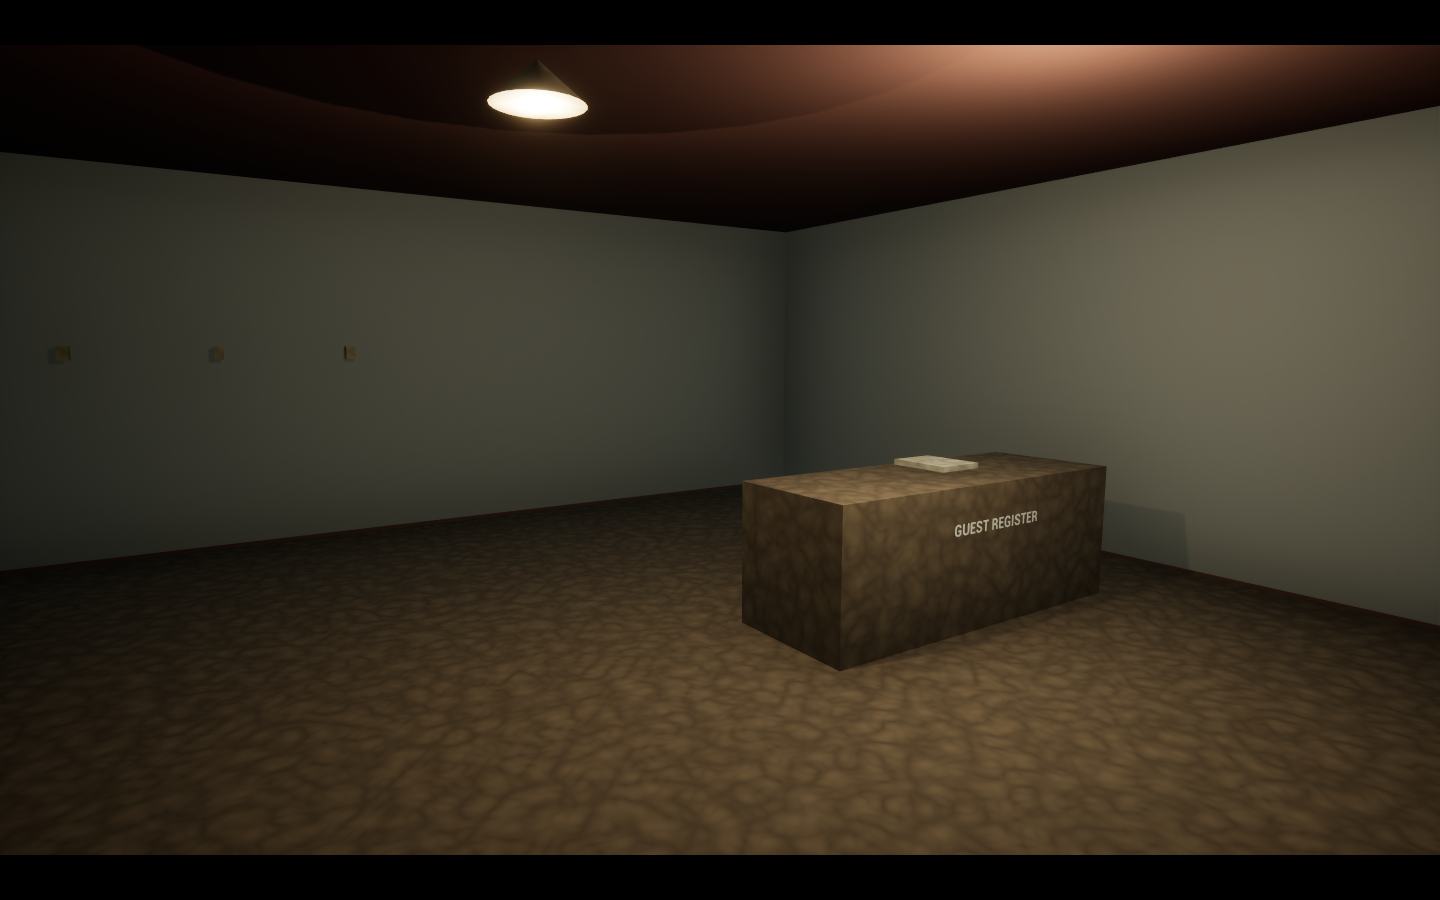
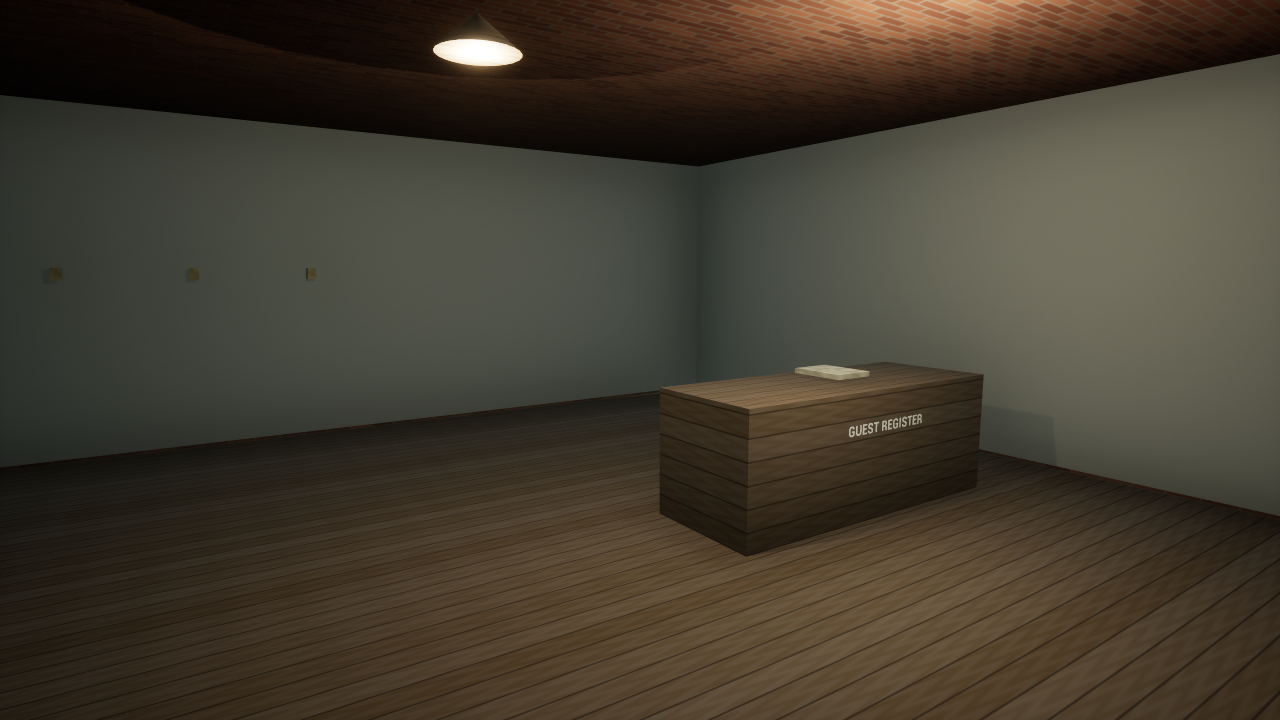
Refine town architecture with original materials and facade details

diff --git a/Source/CountyLine/World/CLPecosBend.cpp b/Source/CountyLine/World/CLPecosBend.cpp
@@ -13,6 +13,17 @@ UStaticMeshComponent* ACLPecosBend::Shape(const FString& Name,FVector P,FVector 
     const bool bPrototype=FString(Material)==TEXT("Brick") || FString(Material)==TEXT("Plaster");
     const FString Asset=bPrototype?FString::Printf(TEXT("/Game/Prototype/Materials/M_%s.M_%s"),Material,Material):FString::Printf(TEXT("/Game/Art/Materials/M_CL_%s.M_CL_%s"),Material,Material);
     C->SetMaterial(0,LoadObject<UMaterialInterface>(nullptr,*Asset));
+    FString Finish;
+    const FString Kind(Material);
+    if(Name.Contains(TEXT("Inner")) || Name.Contains(TEXT("Laundry"))) {} // Keep plain interior plaster and cloth.
+    else if(Name.StartsWith(TEXT("Home")) && Name.EndsWith(TEXT("Walls")) && Kind==TEXT("Plaster")) Finish=TEXT("Siding");
+    else if(Name.Contains(TEXT("Glass"))) Finish=TEXT("Glass");
+    else if(Kind==TEXT("Brick")) Finish=TEXT("Brick");
+    else if(Kind==TEXT("Timber")) Finish=TEXT("Wood");
+    else if(Kind==TEXT("Iron")) Finish=TEXT("Metal");
+    else if(Kind==TEXT("Plaster")) Finish=TEXT("Stone");
+    if(!Finish.IsEmpty())
+        if(auto* TownMaterial=LoadObject<UMaterialInterface>(nullptr,*FString::Printf(TEXT("/Game/Art/Town/Materials/M_Town%s.M_Town%s"),*Finish,*Finish))) C->SetMaterial(0,TownMaterial);
     C->SetCollisionEnabled(Collision?ECollisionEnabled::QueryAndPhysics:ECollisionEnabled::NoCollision);C->SetCollisionResponseToAllChannels(ECR_Block);
     return C;
 }
@@ -44,6 +55,13 @@ void ACLPecosBend::Store(const FString& Name,const FString& Title,FVector P,floa
     Shape(Name+TEXT("PorchRoof"),P+FVector(0,-470,275),FVector(Width+30,300,15),TEXT("Timber"));
     for(int32 Side:{-1,1}) Shape(Name+FString::Printf(TEXT("PorchPost%d"),Side),P+FVector(Side*(Width/2-20),-600,135),FVector(12,12,270),TEXT("Timber"));
     Shape(Name+TEXT("Boardwalk"),P+FVector(0,-490,2),FVector(Width+30,340,8),TEXT("Timber"));
+    for(int32 Side:{-1,1})
+    {
+        Shape(Name+FString::Printf(TEXT("Pilaster%d"),Side),P+FVector(Side*(Width/2-22),-368,Height/2),FVector(45,35,Height),TEXT("Plaster"),TEXT("Cube"),false);
+        Shape(Name+FString::Printf(TEXT("Sill%d"),Side),P+FVector(Side*Width*.28f,-380,65),FVector(Width*.28f+20,40,15),TEXT("Plaster"),TEXT("Cube"),false);
+    }
+    Shape(Name+TEXT("DoorTransom"),P+FVector(0,-375,245),FVector(100,10,32),TEXT("Iron"),TEXT("Cube"),false);
+    Shape(Name+TEXT("DoorHandle"),P+FVector(34,-374,112),FVector(5,8,24),TEXT("Brass"),TEXT("Cube"),false);
 }
 
 // Small closed homes face the residential lane; porches and yards are walkable.
@@ -52,6 +70,24 @@ void ACLPecosBend::Home(const FString& Name,FVector P,float W,float D,const TCHA
     Shape(Name+TEXT("Foundation"),P+FVector(0,0,18),FVector(W+25,D+25,36),TEXT("Rock"));
     Shape(Name+TEXT("Walls"),P+FVector(0,0,180),FVector(W,D,300),Material);
     const float Rise=D*.24f;
+    // Boarded gable ends follow the roof pitch and close the old attic gaps.
+    for(int32 Side:{-1,1})
+    {
+        for(int32 Row=0;Row<12;++Row)
+            Shape(Name+FString::Printf(TEXT("Gable%d_%d"),Side,Row),P+FVector(Side*(W/2-5),0,330+(Row+.5f)*Rise/12),FVector(14,D*(1.f-float(Row)/12),Rise/12+1),TEXT("Timber"),TEXT("Cube"),false);
+        for(int32 Bay:{-1,1})
+        {
+            const FVector Window=P+FVector(Side*(W/2+8),Bay*D*.25f,180);
+            Shape(Name+FString::Printf(TEXT("SideFrame%d_%d"),Side,Bay),Window,FVector(18,135,160),TEXT("Plaster"),TEXT("Cube"),false);
+            Shape(Name+FString::Printf(TEXT("SideGlass%d_%d"),Side,Bay),Window+FVector(Side*14,0,0),FVector(7,110,135),TEXT("Iron"),TEXT("Cube"),false);
+            Shape(Name+FString::Printf(TEXT("SideSash%d_%d"),Side,Bay),Window+FVector(Side*20,0,0),FVector(5,110,6),TEXT("Timber"),TEXT("Cube"),false);
+        }
+        Shape(Name+FString::Printf(TEXT("Corner%d"),Side),P+FVector(Side*(W/2-9),-D/2-7,180),FVector(20,20,300),TEXT("Plaster"),TEXT("Cube"),false);
+        Shape(Name+FString::Printf(TEXT("PorchRail%d"),Side),P+FVector(Side*(W*.32f),-D/2-210,100),FVector(W*.28f,10,12),TEXT("Timber"));
+        for(int32 Rail=0;Rail<5;++Rail)
+            Shape(Name+FString::Printf(TEXT("PorchSpindle%d_%d"),Side,Rail),P+FVector(Side*(W*.18f+Rail*W*.07f),-D/2-210,60),FVector(7,7,75),TEXT("Timber"),TEXT("Cube"),false);
+    }
+    Shape(Name+TEXT("RidgeCap"),P+FVector(0,0,330+Rise+12),FVector(W+105,24,18),TEXT("Iron"),TEXT("Cube"),false);
     // Deep roof panels overlap at the ridge. Dark attic walls close the gable ends.
     Shape(Name+TEXT("Attic"),P+FVector(0,0,330+Rise*.22f),FVector(W-20,D*.50f,Rise*.44f),TEXT("Timber"));
     for(int32 Side:{-1,1})
@@ -70,6 +106,8 @@ void ACLPecosBend::Home(const FString& Name,FVector P,float W,float D,const TCHA
     }
     Shape(Name+TEXT("DoorFrame"),P+FVector(0,-D/2-10,145),FVector(122,20,245),TEXT("Plaster"));
     Shape(Name+TEXT("Door"),P+FVector(0,-D/2-24,137),FVector(100,10,222),TEXT("Timber"));
+    Shape(Name+TEXT("DoorHandle"),P+FVector(34,-D/2-33,125),FVector(6,8,20),TEXT("Brass"),TEXT("Cube"),false);
+    for(int32 Panel=0;Panel<2;++Panel) Shape(Name+FString::Printf(TEXT("DoorPanel%d"),Panel),P+FVector(0,-D/2-31,85+Panel*98),FVector(75,5,75),TEXT("Timber"),TEXT("Cube"),false);
     Shape(Name+TEXT("Porch"),P+FVector(0,-D/2-125,10),FVector(W,250,20),TEXT("Timber"));
     Shape(Name+TEXT("PorchRoof"),P+FVector(0,-D/2-120,285),FVector(W+70,310,20),TEXT("Timber"));
     Shape(Name+TEXT("Chimney"),P+FVector(W*.28f,D*.20f,410),FVector(80,90,390),TEXT("Brick"));
@@ -114,6 +152,19 @@ ACLPecosBend::ACLPecosBend()
     Shape(TEXT("CourtCentralBay"),Court+FVector(0,-735,515),FVector(470,100,1030),TEXT("Brick"));
     Shape(TEXT("CourtEntryFrame"),Court+FVector(0,-800,175),FVector(250,30,350),TEXT("Plaster"));
     Shape(TEXT("CourtEntryDoor"),Court+FVector(0,-820,155),FVector(195,16,310),TEXT("Timber"));
+    Shape(TEXT("CourtFloorBand"),Court+FVector(0,0,510),FVector(1830,1430,28),TEXT("Plaster"),TEXT("Cube"),false);
+    for(int32 Side:{-1,1})
+    {
+        for(int32 Row=0;Row<15;++Row)
+            Shape(FString::Printf(TEXT("CourtQuoin%d_%d"),Side,Row),Court+FVector(Side*865,-716,105+Row*60),FVector(Row%2?65:100,38,42),TEXT("Plaster"),TEXT("Cube"),false);
+        for(int32 Bay=0;Bay<3;++Bay)
+        {
+            const FVector Seat=Court+FVector(Side*1120,-550+Bay*650,0);
+            Shape(FString::Printf(TEXT("SquareSeat%d_%d"),Side,Bay),Seat+FVector(0,0,46),FVector(60,190,12),TEXT("Timber"));
+            Shape(FString::Printf(TEXT("SquareSeatBack%d_%d"),Side,Bay),Seat+FVector(Side*26,0,82),FVector(10,190,70),TEXT("Timber"));
+            for(int32 Leg:{-1,1}) Shape(FString::Printf(TEXT("SquareSeatLeg%d_%d_%d"),Side,Bay,Leg),Seat+FVector(0,Leg*65,20),FVector(45,12,40),TEXT("Iron"));
+        }
+    }
     Sign(TEXT("CourtEntryText"),TEXT("RIVAS COUNTY\nCOURTHOUSE"),Court+FVector(0,-810,410),-90,30);
     for(int32 Floor=0;Floor<2;++Floor) for(int32 Bay=-3;Bay<=3;++Bay)
     {
@@ -123,6 +174,9 @@ ACLPecosBend::ACLPecosBend()
         Shape(Name+TEXT("Stone"),P,FVector(150,25,270),TEXT("Plaster"));
         Shape(Name+TEXT("Glass"),P+FVector(0,-20,0),FVector(120,8,235),TEXT("Iron"));
         Shape(Name+TEXT("Cross"),P+FVector(0,-25,0),FVector(120,8,8),TEXT("Timber"),TEXT("Cube"),false);
+        Shape(Name+TEXT("Sill"),P+FVector(0,-28,-145),FVector(178,55,18),TEXT("Plaster"),TEXT("Cube"),false);
+        Shape(Name+TEXT("Lintel"),P+FVector(0,-20,145),FVector(180,38,30),TEXT("Plaster"),TEXT("Cube"),false);
+        Shape(Name+TEXT("VerticalSash"),P+FVector(0,-26,0),FVector(7,8,235),TEXT("Timber"),TEXT("Cube"),false);
     }
     for(int32 Side:{-1,1}) for(int32 Bay=-2;Bay<=2;++Bay) for(int32 Floor=0;Floor<2;++Floor)
     {

diff --git a/Scripts/build_town_materials.py b/Scripts/build_town_materials.py
@@ -1,0 +1,75 @@
+"""Create original, centimetre-scaled procedural town materials; no map edits."""
+import unreal
+
+tools = unreal.AssetToolsHelpers.get_asset_tools()
+lib = unreal.MaterialEditingLibrary
+folder = '/Game/Art/Town/Materials'
+projection = '''
+float3 n = abs(N);
+float2 uv = n.z > 0.6 ? P.xy : (n.y > n.x ? P.xz : P.yz);
+'''
+patterns = {
+    'Siding': ('''
+float edge = min(frac(uv.y/18),1-frac(uv.y/18));
+float joint = 1-smoothstep(.01,.045,edge);
+float wear = sin(uv.x*.11)*sin(uv.y*.9)*.008;
+return lerp(float3(.46,.445,.37)+wear,float3(.19,.18,.145),joint*.55);
+''', .9),
+    'Brick': ('''
+float row = floor(uv.y / 7.5);
+float2 cell = float2(uv.x / 25.0 + fmod(abs(row),2.0)*0.5, uv.y / 7.5);
+float2 edge = min(frac(cell),1-frac(cell));
+float2 aa = max(fwidth(cell),0.002);
+float joint = 1-smoothstep(0.028-aa.x,0.028+aa.x,edge.x)*smoothstep(0.065-aa.y,0.065+aa.y,edge.y);
+float grain = frac(sin(dot(floor(cell),float2(12.9898,78.233)))*43758.5453);
+float3 brick = lerp(float3(.19,.067,.037),float3(.32,.135,.072),grain);
+return lerp(brick,float3(.25,.225,.175),joint*.85);
+''', .9),
+    'Wood': ('''
+float board = floor(uv.y/16.0);
+float grain = sin(uv.x*.16+sin(uv.y*.75)*2)*.012;
+float shade = frac(sin(board*37.3)*43758.5);
+float joint = 1-smoothstep(.015,.055,min(frac(uv.y/16),1-frac(uv.y/16)));
+return lerp(float3(.16,.105,.055)+shade*.035+grain,float3(.045,.029,.015),joint*.7);
+''', .88),
+    'Metal': ('''
+float seam = 1-smoothstep(.008,.035,min(frac(uv.x/45),1-frac(uv.x/45)));
+float weather = sin(uv.y*.045)*sin(uv.x*.012)*.012;
+return float3(.065,.071,.065)+weather+seam*.035;
+''', .68),
+    'Stone': ('''
+float row = floor(uv.y/28);
+float2 c = float2(uv.x/65+fmod(abs(row),2)*.5,uv.y/28);
+float2 e = min(frac(c),1-frac(c));
+float joint = 1-smoothstep(.012,.032,e.x)*smoothstep(.018,.045,e.y);
+float fleck=sin(uv.x*1.5)*sin(uv.y*1.7)*.012;
+return lerp(float3(.47,.43,.34)+fleck,float3(.24,.22,.18),joint*.55);
+''', .92),
+    'Glass': ('return float3(.055,.095,.11);', .23),
+}
+for name, (code, roughness) in patterns.items():
+    asset = 'M_Town'+name
+    mat = unreal.load_asset(folder+'/'+asset) if unreal.EditorAssetLibrary.does_asset_exist(folder+'/'+asset) else None
+    if not mat:
+        mat = tools.create_asset(asset,folder,unreal.Material,unreal.MaterialFactoryNew())
+    lib.delete_all_material_expressions(mat)
+    pos = lib.create_material_expression(mat,unreal.MaterialExpressionWorldPosition)
+    normal = lib.create_material_expression(mat,unreal.MaterialExpressionVertexNormalWS)
+    custom = lib.create_material_expression(mat,unreal.MaterialExpressionCustom)
+    custom.set_editor_property('code',projection+code)
+    custom.set_editor_property('output_type',unreal.CustomMaterialOutputType.CMOT_FLOAT3)
+    inputs=[]
+    for key in ('P','N'):
+        item=unreal.CustomInput()
+        item.set_editor_property('input_name',key)
+        inputs.append(item)
+    custom.set_editor_property('inputs',inputs)
+    assert lib.connect_material_expressions(pos,'',custom,'P')
+    assert lib.connect_material_expressions(normal,'',custom,'N')
+    assert lib.connect_material_property(custom,'',unreal.MaterialProperty.MP_BASE_COLOR)
+    rough = lib.create_material_expression(mat,unreal.MaterialExpressionConstant)
+    rough.set_editor_property('r',roughness)
+    lib.connect_material_property(rough,'',unreal.MaterialProperty.MP_ROUGHNESS)
+    lib.recompile_material(mat)
+    unreal.EditorAssetLibrary.save_loaded_asset(mat,only_if_is_dirty=False)
+unreal.log('CL_TOWN_MATERIALS_SUCCESS')

diff --git a/Source/CountyLine/World/CLPrototypeGameMode.cpp b/Source/CountyLine/World/CLPrototypeGameMode.cpp
@@ -337,11 +337,11 @@ void ACLPrototypeGameMode::CaptureTownReview()
 {
     // Engine-rendered QA artifacts, isolated by the required CLSmokeTest run.
     // These cameras do not alter the player's saved location or normal view.
-    const FVector Positions[]={FVector(-10000,-7600,8500),FVector(-1600,-480,260),FVector(-4340,-1820,190),FVector(-7600,2800,2500)};
-    const FVector Targets[]={FVector(-2900,1700,250),FVector(-560,0,260),FVector(-4000,-2330,110),FVector(-2700,5650,150)};
-    const TCHAR* Names[]={TEXT("TownOverview.png"),TEXT("JailFrontage.png"),TEXT("LangLobby.png"),TEXT("ResidentialLane.png")};
+    const FVector Positions[]={FVector(-10000,-7600,8500),FVector(-1600,-480,260),FVector(-4340,-1820,190),FVector(-7600,2800,2500),FVector(-4400,-1400,450),FVector(-6250,4250,220)};
+    const FVector Targets[]={FVector(-2900,1700,250),FVector(-560,0,260),FVector(-4000,-2330,110),FVector(-2700,5650,150),FVector(-3900,1200,650),FVector(-5500,5550,230)};
+    const TCHAR* Names[]={TEXT("TownOverview.png"),TEXT("JailFrontage.png"),TEXT("LangLobby.png"),TEXT("ResidentialLane.png"),TEXT("CourthouseDetail.png"),TEXT("HomeDetail.png")};
     const int32 View=TownReviewStep/2;
-    if(View>=4) {GetWorldTimerManager().ClearTimer(TownReviewTimer);FPlatformMisc::RequestExitWithStatus(false,0);return;}
+    if(View>=6) {GetWorldTimerManager().ClearTimer(TownReviewTimer);FPlatformMisc::RequestExitWithStatus(false,0);return;}
     if(TownReviewStep%2==0)
     {
         TownReviewCamera->SetActorLocationAndRotation(Positions[View],(Targets[View]-Positions[View]).Rotation());

diff --git a/Source/CountyLine/World/CLBendLateral.cpp b/Source/CountyLine/World/CLBendLateral.cpp
@@ -22,12 +22,12 @@ ACLBendLateral::ACLBendLateral()
     Sky->SetupAttachment(RootComponent);
     auto* Sun=CreateDefaultSubobject<UDirectionalLightComponent>(TEXT("Sun"));
     Sun->SetupAttachment(RootComponent);Sun->SetMobility(EComponentMobility::Movable);
-    Sun->SetRelativeRotation(FRotator(-32,-40,0));Sun->SetIntensity(3);
+    Sun->SetRelativeRotation(FRotator(-38,125,0));Sun->SetIntensity(3);
     Sun->SetLightColor(FLinearColor(1.f,.90f,.74f));Sun->bAtmosphereSunLight=true;
     Sun->LightSourceAngle=2.f;
     auto* Ambient=CreateDefaultSubobject<USkyLightComponent>(TEXT("OpenSkyFill"));
     Ambient->SetupAttachment(RootComponent);Ambient->SetMobility(EComponentMobility::Movable);
-    Ambient->SetIntensity(.65f);Ambient->SetRealTimeCaptureEnabled(true);
+    Ambient->SetIntensity(1.25f);Ambient->SetRealTimeCaptureEnabled(true);
     auto* Fog=CreateDefaultSubobject<UExponentialHeightFogComponent>(TEXT("DistanceHaze"));
     Fog->SetupAttachment(RootComponent);Fog->SetFogDensity(.008f);
     Fog->SetFogHeightFalloff(.25f);Fog->SetFogInscatteringColor(FLinearColor(.48f,.49f,.43f));

diff --git a/Docs/PECOS_BEND_TOWN.md b/Docs/PECOS_BEND_TOWN.md
@@ -4,6 +4,8 @@ Geography decision: the user has authorized the game layout to lead the final ma
 
 ## Visual target
 
+The subsequent [architecture detail pass](TOWN_DETAIL_PASS.md) adds procedural surface finishes, façade trim, residential details and revised outdoor lighting within the approved layout.
+
 The user's reference is `Docs/Reference/design_handoff_county_line/boards/uploads/Grok Image 2026-09-17 at 7.26.33 PM.png`, reconfirmed on 20 September 2026. It guides the courthouse silhouette, low brick storefronts, dusty street grid, utility poles, sparse shade trees, and the town's relationship to open country. Its visual quality is a production target, not a claim that this first pass reproduces its realism or full extent.
 
 The reference can be recreated as a navigable Unreal environment through authored buildings, terrain, vegetation, materials, lighting and camera composition. A single concept image does not specify hidden building faces, interiors, accurate dimensions or exact geography. Those require additional design and asset work. The written Design Bible takes the railway around the west edge, rather than through the square; that remains the intended layout despite differences in the image. The river, railway, water tower, vehicles and distant oil field are not implemented in this pass.
@@ -33,6 +35,6 @@ Runtime checks cover collision-swept travel from the jail to the square, entry i
 
 Verified Unreal captures: [town overview](Verification/PecosBend/TownOverview.png), [residential lane](Verification/PecosBend/ResidentialLane.png), [jail frontage](Verification/PecosBend/JailFrontage.png), and [Lang's lobby](Verification/PecosBend/LangLobby.png).
 
-For a fresh capture, create `Saved/Screenshots/TownReview`, then launch the editor executable with the project and `/Game/Maps/L_JailOffice -game -windowed -ResX=1440 -ResY=900 -nosplash -CLSmokeTest -CLTownReview`. After the smoke checks pass, the game takes four fixed-camera screenshots without UI and exits. This development-only mode does not use the player's save slot.
+For a fresh capture, create `Saved/Screenshots/TownReview`, then launch the editor executable with the project and `/Game/Maps/L_JailOffice -game -windowed -ResX=1440 -ResY=900 -nosplash -CLSmokeTest -CLTownReview`. After the smoke checks pass, the game takes six fixed-camera screenshots without UI and exits. This development-only mode does not use the player's save slot.
 
 The initial town pass passed 10 automation suites and 68 runtime smoke assertions. Subsequent jogging and residential work expands that coverage; see [VERIFICATION.md](VERIFICATION.md) for current results and limitations.

diff --git a/Docs/TOWN_DETAIL_PASS.md b/Docs/TOWN_DETAIL_PASS.md
@@ -1,0 +1,21 @@
+# Town architecture detail pass
+
+This pass refines the approved town layout without moving building footprints, doors, location zones or checkpoints. The reference images remain the long-term visual target; this is an intermediate architectural pass, not finished photoreal scenery.
+
+## Visible changes
+
+- Centimetre-scaled running-bond brick and mortar, pale timber siding, timber grain and board joints, stone courses, metal roof seams and opaque blue-grey window glass.
+- Courthouse floor band, alternating corner stones, window sills, lintels and sash bars; six benches along the side walks.
+- Storefront corner trim, window sills, transoms and door handles.
+- Residential gable boards, side windows, corner trim, roof ridge caps, door panels and handles, and porch rails with open central approaches.
+- The shared outdoor sun now lights the south-facing façades, with stronger sky fill to make shaded detail readable. This affects Bend Lateral as well as the town; it remains fixed prototype daylight, not a time-of-day system.
+
+Existing house and shop interiors remain closed. The decorations add no resident schedules, conversations or save stations. Foliage, terrain and many building forms remain simplified. Materials supply colour and roughness, not texture-derived normal maps or displacement; windows are opaque surfaces rather than simulated interiors.
+
+## Reproduction
+
+`Scripts/build_town_materials.py` creates six original Unreal materials in `/Game/Art/Town/Materials`. Run it through Unreal's Python commandlet. It edits only these materials, not maps or shared prototype materials. The source contains the procedural shader patterns and uses no downloaded textures. Surface patterns use world coordinates at fixed centimetre scales, so they remain consistent across differently scaled building components. Moving a component changes pattern phase.
+
+`ACLPecosBend::Shape` assigns the finishes within the town actor and retains the original material when a generated finish is unavailable. Lobby inner plaster keeps its previous finish. Architectural details are native components; no map regeneration is needed. The checked-in material assets are tracked with Git LFS.
+
+The existing `-CLSmokeTest -CLTownReview` mode now records six views, adding `CourthouseDetail.png` and `HomeDetail.png`. Use `-Multiprocess -RenderOffscreen -unattended` for offscreen review. See `VERIFICATION.md` for build, route and render results.

diff --git a/Docs/VERIFICATION.md b/Docs/VERIFICATION.md
@@ -143,3 +143,11 @@ Integrated Claude's commits 8f135a5 and 9fd895a, based on residential commit 673
 In the separate CountyLine-Integration checkout, CountyLineEditor Win64 Development built with -NoPCH -NoUBA -NoHotReloadFromIDE. Scripts/Test-Prototype.ps1 exited 0: all 13 automation suites and 77 runtime checks passed. The recovery helper in the new unit tests duplicates the acceptance rule; it does not itself exercise production teleporting. The existing runtime smoke covers that live path. Save fixtures remain memory-only, and the player's slot was not touched. No visible game window was launched.
 
 The running desktop prototype in CountyLine-Office was deliberately not replaced during the user's residential playtest. GitHub includes the tested integration; deploying that module to the desktop checkout is a separate step once the game is closed. The user reported that the residential block looked good during this test.
+
+## Town architecture detail pass - 20 September 2026
+
+Generated six original procedural Unreal material assets with Scripts/build_town_materials.py. The final generator run reported CL_TOWN_MATERIALS_SUCCESS without errors or warnings. Added façade trim, residential gables/windows/porch rails and courthouse benches. All building footprints, door positions and checkpoint definitions remain unchanged.
+
+CountyLineEditor Win64 Development built with -NoPCH -NoUBA -NoHotReloadFromIDE. Scripts/Test-Prototype.ps1 exited 0: all 13 automation suites and 77 runtime checks passed. Initial close-up captures exposed overly dark shaded fronts. Adjusted the shared outdoor sun direction and skylight intensity, rebuilt, and reran the offscreen rendered fixture: all 77 runtime checks passed again, with no shader compilation errors reported. Reviewed the final courthouse and home close-ups and town overview; the six current engine captures are in Docs/Verification/PecosBend.
+
+The desktop checkout contains the rebuilt module and generated materials. No player save was loaded or written by these checks. This is an intermediate surface/detail pass with fixed daylight, opaque windows and simplified geometry/vegetation; it is not a packaged-build, physical-controller or performance certification. See TOWN_DETAIL_PASS.md for reproduction and limits.
